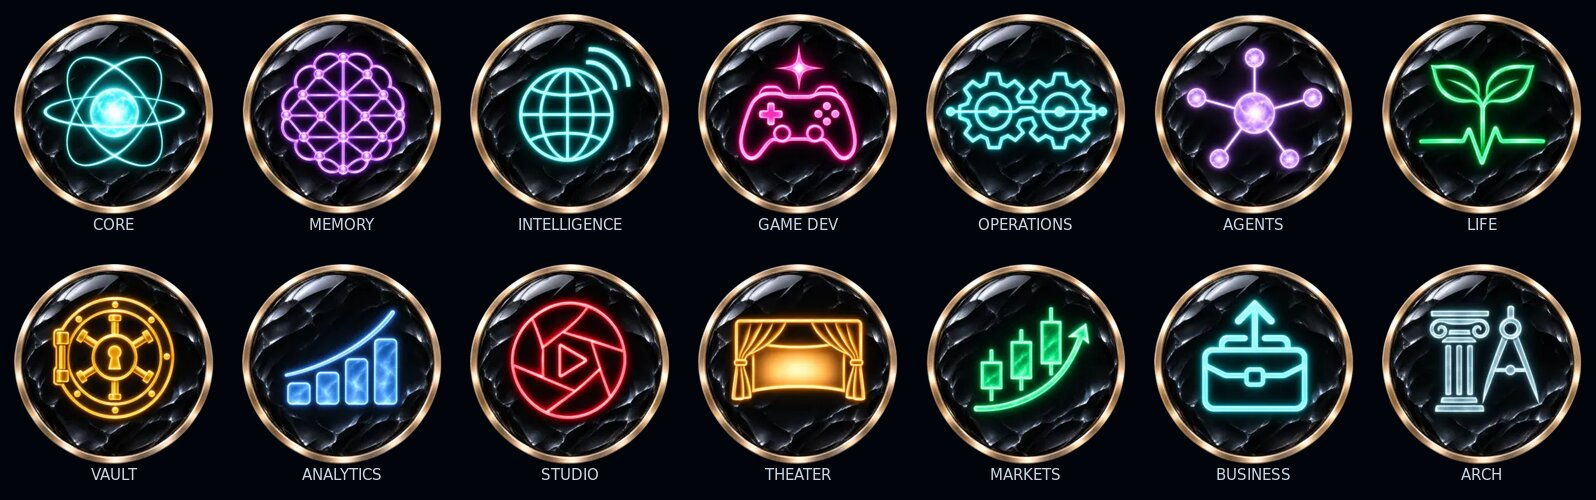
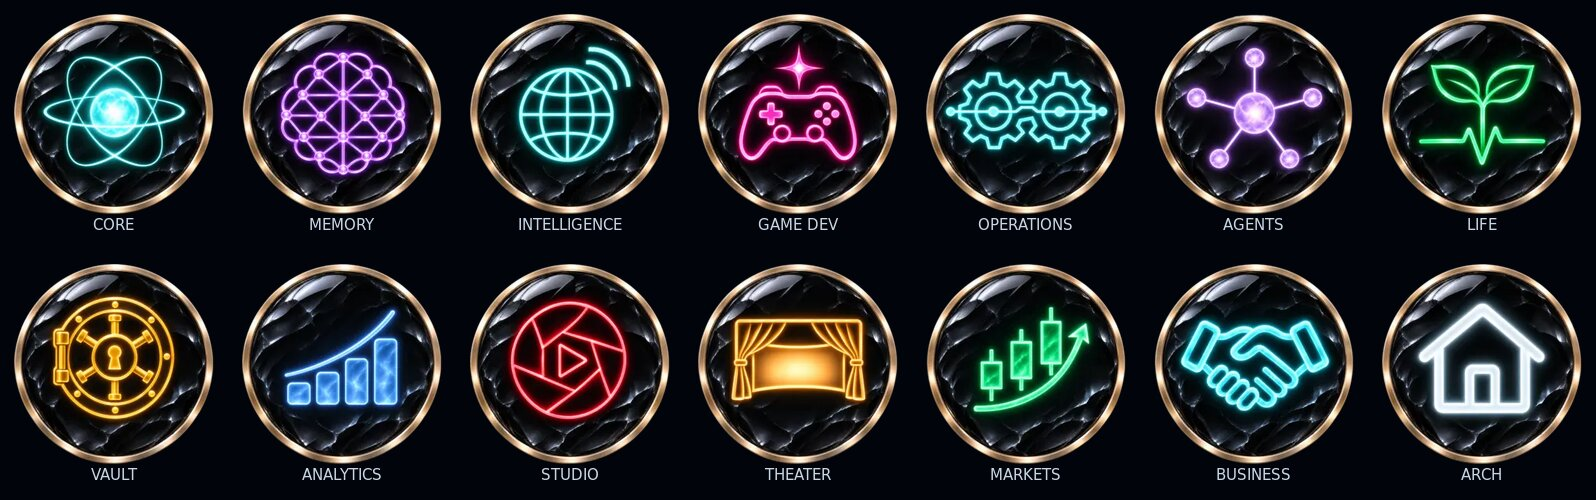
Night visuals review fixes: inline card emblems, visible nebula loop, lighter assets
- Home-card emblems sit inline (26 px) before the title instead of absolutely over the text.
- Nebula loop lives inside nav.orbit-overview (isolated, z -1) so it paints over the opaque nav background; own ambient-in keyframe to .55.
- Dropped the unused 512 px emblems and srcSet; middleware matcher skips .webm/.mp4 (route-guards MATCHER updated).
- Clearer BUSINESS (handshake) and ARCH (bold house) glyphs; screenshots at 1440 and 375.

Claude-Session: https://claude.ai/code/session_01ERArzWbNstLm8TG8aQFSsN

Changed region(s): [[0.7061, 0.54, 0.9825, 0.9], [0.9518, 0.57, 0.9825, 0.6], [0.8904, 0.87, 0.9211, 0.9]]

diff --git a/src/components/Orbit.tsx b/src/components/Orbit.tsx
@@ -712,23 +712,23 @@ export default function Orbit({ userId, email }: { userId: string; email: string
         <TheaterWorld flat={view !== "3d"} reduced={reduced} quality={quality} onClose={closeWorld} />
       ) : isPlanetWorld(shown) ? (
         <PlanetWorld key={shown} id={shown} flat={view !== "3d"} reduced={reduced} quality={quality} onClose={closeWorld}>{panelBody(shown)}</PlanetWorld>
-      ) : view === null ? <GalaxyLoader /> : view === "3d" ? null : (<>
-        <AmbientLoop />
+      ) : view === null ? <GalaxyLoader /> : view === "3d" ? null : (
         <nav aria-label={t("overview.aria")} inert={covered || undefined} className="orbit-overview absolute inset-0 overflow-y-auto px-4 pb-32 pt-24">
+          <AmbientLoop />
           <div className="overview-heading"><p>{t("overview.kicker")}</p><h1>{t("overview.title1")}<br />{t("overview.title2")}</h1><span>{t("overview.lede")}</span></div>
           {activityHome && <NeedsYou inline tasks={galaxyTasks} tasksFailed={galaxyTasksFailed} onOpenTask={openTask} onOpenGoal={openGoal} />}
           {!shown && <ContinueWork onOpenTask={openTask} onOpenGoal={openGoal} />}
           <ul className="overview-worlds">
             <li><button className={`planet-card${warning ? " warn" : ""}`} onClick={() => select("core")} style={{ borderColor: "#7dd3fc" }}>
-              <WorldEmblem id="core" size={44} className="planet-card-emblem" /><b>CORE</b><span className="muted text-sm">{busy ? t("overview.thinking") : warning ? t("overview.lastFailed") : t("overview.core")}</span></button></li>
+              <b><WorldEmblem id="core" size={26} className="planet-card-emblem" />CORE</b><span className="muted text-sm">{busy ? t("overview.thinking") : warning ? t("overview.lastFailed") : t("overview.core")}</span></button></li>
             {PLANETS.map((p) => (
               <li key={p.id}><button className="planet-card" onPointerEnter={() => warmWorld(p.id)} onFocus={() => warmWorld(p.id)} data-overview-planet={p.id} onClick={() => galaxySelect(p.id)} style={{ borderColor: p.color }}>
-                <WorldEmblem id={p.id} size={44} className="planet-card-emblem" /><b style={{ color: p.color }}>{t(`planet.${p.id}`)}</b>
+                <b style={{ color: p.color }}><WorldEmblem id={p.id} size={26} className="planet-card-emblem" />{t(`planet.${p.id}`)}</b>
                 <span className="muted text-sm">{p.id === "memory" ? tn("overview.memories", memoryShown) : p.id === "intelligence" && pulseBusy ? t("overview.pulseBusy") : p.id === "intelligence" && pulseFailed ? t("overview.pulseFailed") : p.id === "operations" && automationFailing ? t("overview.autoFailed") : p.id === "life" && lifeLine ? lifeLine : p.id === "agents" && runningTasks.length ? tn("overview.running", runningTasks.length) : t(`planet.${p.id}.blurb`)}</span></button></li>
             ))}
           </ul>
         </nav>
-      </>)}
+      )}
 
       <header className="absolute inset-x-0 top-0 flex items-center justify-between gap-3 px-4 py-3">
         <button className="logo" onClick={closeWorld} aria-label={t("hud.home")}>

diff --git a/src/app/globals.css b/src/app/globals.css
@@ -927,15 +927,16 @@ div.story-name, .story-readout:not(.on) .story-name { cursor: default; pointer-e
 /* World emblems (public/ui/emblems): transform/opacity only. */
 .world-emblem { flex: none; display: inline-block; vertical-align: middle; border-radius: 50%; transition: transform .35s var(--ease-glide), opacity .35s; }
 .chip .world-emblem { margin-right: .4rem; margin-left: -.2rem; }
-.planet-card-emblem { position: absolute; top: .8rem; right: .9rem; opacity: .9; }
+.planet-card-emblem { margin: -.2rem .55rem 0 0; opacity: .9; }
 .planet-card:hover .planet-card-emblem, .planet-card:focus-visible .planet-card-emblem { transform: scale(1.12) rotate(-8deg); opacity: 1; }
 .explore-grid button:hover .world-emblem, .explore-core:hover .world-emblem { transform: scale(1.1); }
 .planet-card::after { content: ""; position: absolute; inset: 0; border-radius: inherit; pointer-events: none; opacity: 0; transition: opacity .3s;
   box-shadow: 0 0 32px -4px currentColor, inset 0 0 24px -12px currentColor; color: rgba(125, 211, 252, .35); }
 .planet-card:hover::after, .planet-card:focus-visible::after { opacity: 1; }
-.ambient-loop { position: fixed; inset: 0; width: 100%; height: 100%; object-fit: cover; z-index: 0; opacity: .55; pointer-events: none; animation: fade-in 1.2s ease-out; }
+.ambient-loop { position: fixed; inset: 0; width: 100%; height: 100%; object-fit: cover; z-index: -1; opacity: .55; pointer-events: none; animation: ambient-in 1.2s ease-out; }
+.orbit-overview:has(.ambient-loop) { isolation: isolate; }
+@keyframes ambient-in { from { opacity: 0; } to { opacity: .55; } }
 @media (prefers-reduced-motion: reduce) { .world-emblem, .planet-card::after { transition: none; } .planet-card:hover .planet-card-emblem { transform: none; } .ambient-loop { animation: none; } }
-.planet-card:has(.planet-card-emblem) { padding-right: 4.2rem; }
 .explore-grid button .world-emblem { float: left; margin: .1rem .7rem .2rem 0; }
 .explore-core .world-emblem { margin-right: .9rem; }
 .explore-core > span:not([aria-hidden]) { flex: 1; }

diff --git a/tests/route-guards.test.ts b/tests/route-guards.test.ts
@@ -6,7 +6,7 @@ import ts from "typescript";
 
 // Static safety net for every API route (docs/SAFETY.md §6). Each exported handler must reach requireUser() (session + allowed
 // email) or, if public, its own named check. Each state-changing handler must be covered by crossSiteBlocked(): src/middleware.ts
-// runs it on every /api write, but its matcher skips paths ending in .png/.jpg/.svg/.webp, so a route whose LAST segment is
+// runs it on every /api write, but its matcher skips paths ending in .png/.jpg/.svg/.webp/.webm/.mp4, so a route whose LAST segment is
 // dynamic (/api/tasks/x.png) bypasses the middleware and must call crossSiteBlocked() itself. Exceptions need a reason below.
 
 const ROOT = "src/app/api";
@@ -33,7 +33,7 @@ const PUBLIC: Record<string, [string | null, string]> = {
 // "route METHOD" -> why that write handler (last segment dynamic) doesn't call crossSiteBlocked. Empty: keep it that way.
 const NO_CSRF: Record<string, string> = {};
 // The CSRF rule above relies on this exact matcher; if you change it, re-check which routes the middleware can miss.
-const MATCHER = String.raw`"/((?!_next/static|_next/image|favicon.ico|.*\\.(?:png|jpg|svg|webp)$).*)"`;
+const MATCHER = String.raw`"/((?!_next/static|_next/image|favicon.ico|.*\\.(?:png|jpg|svg|webp|webm|mp4)$).*)"`;
 
 
 function routeFiles(dir: string): string[] {

diff --git a/src/components/WorldEmblem.tsx b/src/components/WorldEmblem.tsx
@@ -3,7 +3,6 @@ import type { PanelId } from "@/lib/planets";
 
 export function WorldEmblem({ id, size = 28, className = "" }: { id: PanelId; size?: number; className?: string }) {
   if (id === "profile") return null;
-  const src = (px: number) => `/ui/emblems/${id}-${px}.webp`;
-  return <img src={src(256)} srcSet={`${src(256)} 256w, ${src(512)} 512w`} sizes={`${size}px`} width={size} height={size}
+  return <img src={`/ui/emblems/${id}-256.webp`} width={size} height={size}
     loading="lazy" decoding="async" alt="" aria-hidden="true" draggable={false} className={`world-emblem ${className}`} />;
 }

diff --git a/src/middleware.ts b/src/middleware.ts
@@ -67,5 +67,5 @@ export async function middleware(request: NextRequest) {
 }
 
 export const config = {
-  matcher: ["/((?!_next/static|_next/image|favicon.ico|.*\\.(?:png|jpg|svg|webp)$).*)"],
+  matcher: ["/((?!_next/static|_next/image|favicon.ico|.*\\.(?:png|jpg|svg|webp|webm|mp4)$).*)"],
 };
